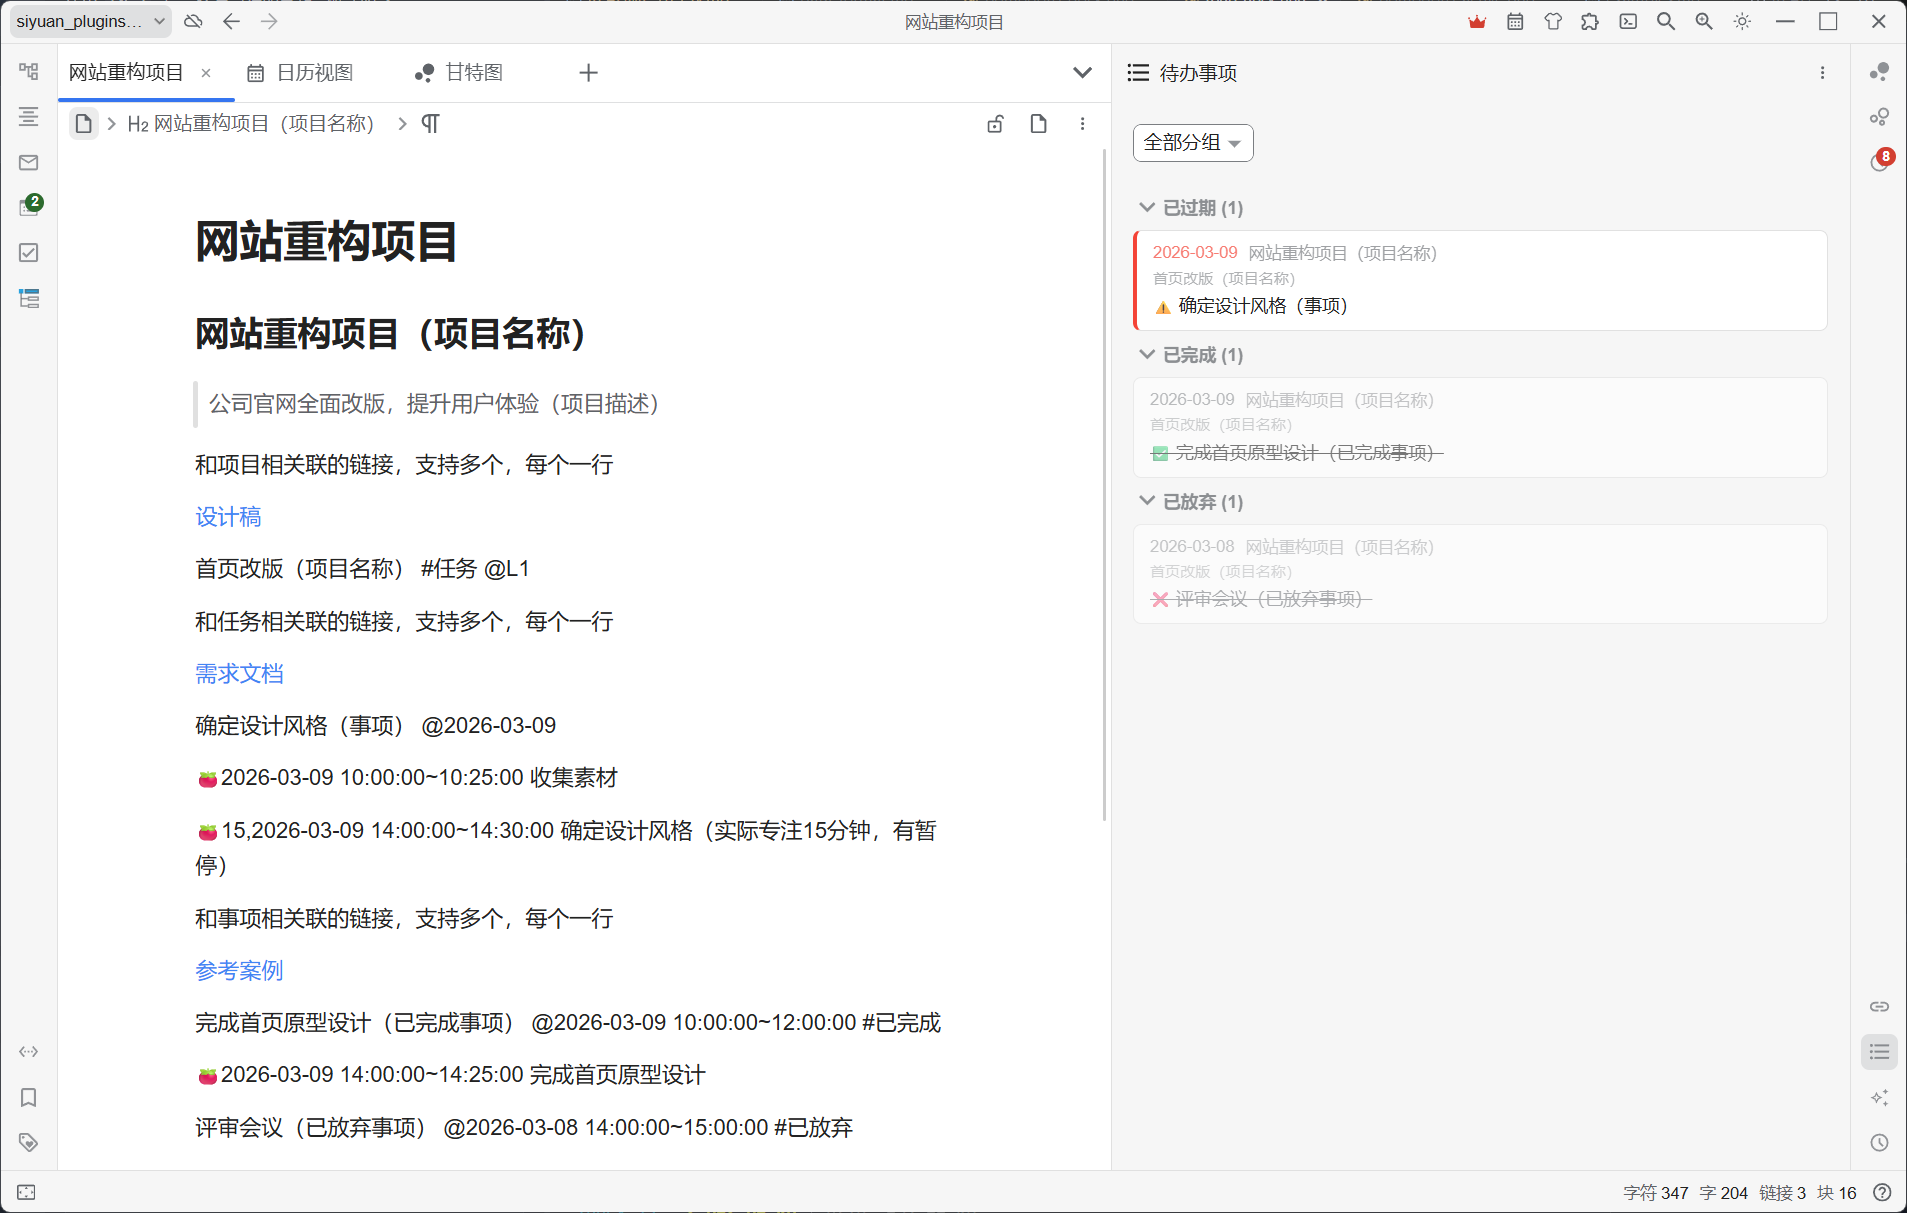
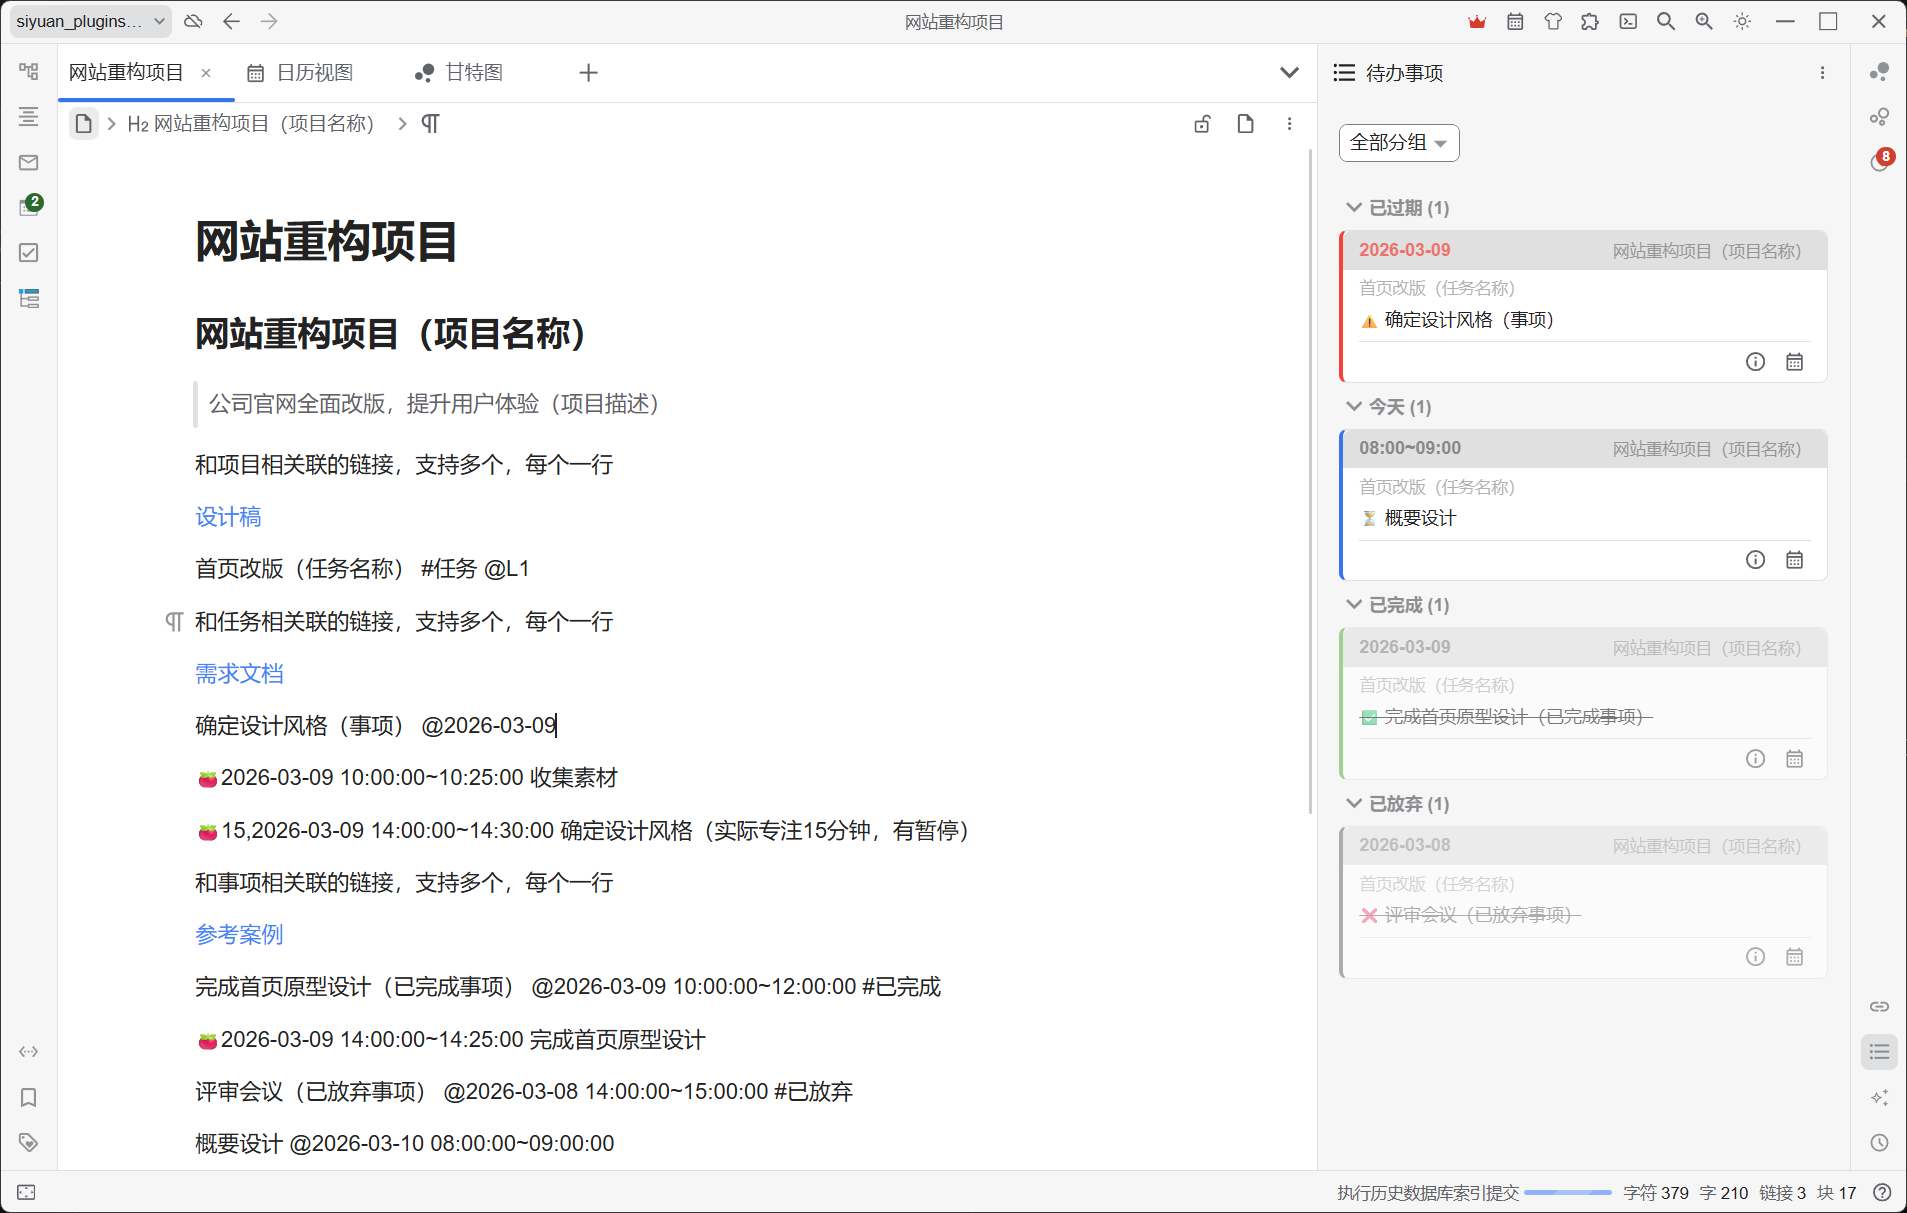
refactor: update TodoSidebar layout and enhance item display
- Improved the layout of the TodoSidebar component by restructuring item display elements.
- Added task name and content visibility for each item, enhancing user experience.
- Updated README_zh_CN.md for clarity on task naming conventions.
- Modified binary image file for user guide illustrations.

diff --git a/src/components/todo/TodoSidebar.vue b/src/components/todo/TodoSidebar.vue
@@ -28,9 +28,13 @@
               <div class="item-header">
                 <div class="item-header-left">
                   <span class="item-time">{{ formatDateLabel(item.date) }}</span>
-                  <span v-if="item.project" class="item-project">{{ item.project.name }}</span>
                 </div>
-                <div class="item-actions">
+                <span v-if="item.project" class="item-project">{{ item.project.name }}</span>
+              </div>
+              <div v-if="item.task" class="item-task">{{ item.task.name }}</div>
+              <div class="item-content">{{ getStatusEmoji(item) }}{{ item.content }}</div>
+              <div class="item-footer">
+                <div class="item-actions-hover">
                   <span
                     class="block__icon b3-tooltips b3-tooltips__sw"
                     :aria-label="t('todo').complete"
@@ -60,6 +64,8 @@
                   >
                     <svg><use xlink:href="#iconCloseRound"></use></svg>
                   </span>
+                </div>
+                <div class="item-actions-fixed">
                   <span class="block__icon b3-tooltips b3-tooltips__sw" :aria-label="t('todo').detail" @click.stop="openDetail(item)">
                     <svg><use xlink:href="#iconInfo"></use></svg>
                   </span>
@@ -68,8 +74,6 @@
                   </span>
                 </div>
               </div>
-              <div v-if="item.task" class="item-task">{{ item.task.name }}</div>
-              <div class="item-content">{{ getStatusEmoji(item) }}{{ item.content }}</div>
             </div>
           </div>
         </div>
@@ -87,16 +91,20 @@
             <div
               v-for="item in todayItems"
               :key="item.id"
-              class="todo-item"
+              class="todo-item status-today"
               @click="openItem(item)"
               @contextmenu.prevent="handleContextMenu($event, item)"
             >
               <div class="item-header">
                 <div class="item-header-left">
                   <span class="item-time">{{ formatTime(item) || t('todo').allDay }}</span>
-                  <span v-if="item.project" class="item-project">{{ item.project.name }}</span>
                 </div>
-                <div class="item-actions">
+                <span v-if="item.project" class="item-project">{{ item.project.name }}</span>
+              </div>
+              <div v-if="item.task" class="item-task">{{ item.task.name }}</div>
+              <div class="item-content">{{ getStatusEmoji(item) }}{{ item.content }}</div>
+              <div class="item-footer">
+                <div class="item-actions-hover">
                   <span
                     class="block__icon b3-tooltips b3-tooltips__sw"
                     :aria-label="t('todo').complete"
@@ -126,6 +134,8 @@
                   >
                     <svg><use xlink:href="#iconCloseRound"></use></svg>
                   </span>
+                </div>
+                <div class="item-actions-fixed">
                   <span class="block__icon b3-tooltips b3-tooltips__sw" :aria-label="t('todo').detail" @click.stop="openDetail(item)">
                     <svg><use xlink:href="#iconInfo"></use></svg>
                   </span>
@@ -134,8 +144,6 @@
                   </span>
                 </div>
               </div>
-              <div v-if="item.task" class="item-task">{{ item.task.name }}</div>
-              <div class="item-content">{{ getStatusEmoji(item) }}{{ item.content }}</div>
             </div>
           </div>
         </div>
@@ -153,16 +161,20 @@
             <div
               v-for="item in tomorrowItems"
               :key="item.id"
-              class="todo-item"
+              class="todo-item status-tomorrow"
               @click="openItem(item)"
               @contextmenu.prevent="handleContextMenu($event, item)"
             >
               <div class="item-header">
                 <div class="item-header-left">
                   <span class="item-time">{{ formatTime(item) || t('todo').allDay }}</span>
-                  <span v-if="item.project" class="item-project">{{ item.project.name }}</span>
                 </div>
-                <div class="item-actions">
+                <span v-if="item.project" class="item-project">{{ item.project.name }}</span>
+              </div>
+              <div v-if="item.task" class="item-task">{{ item.task.name }}</div>
+              <div class="item-content">{{ getStatusEmoji(item) }}{{ item.content }}</div>
+              <div class="item-footer">
+                <div class="item-actions-hover">
                   <span
                     class="block__icon b3-tooltips b3-tooltips__sw"
                     :aria-label="t('todo').complete"
@@ -192,6 +204,8 @@
                   >
                     <svg><use xlink:href="#iconCloseRound"></use></svg>
                   </span>
+                </div>
+                <div class="item-actions-fixed">
                   <span class="block__icon b3-tooltips b3-tooltips__sw" :aria-label="t('todo').detail" @click.stop="openDetail(item)">
                     <svg><use xlink:href="#iconInfo"></use></svg>
                   </span>
@@ -200,8 +214,6 @@
                   </span>
                 </div>
               </div>
-              <div v-if="item.task" class="item-task">{{ item.task.name }}</div>
-              <div class="item-content">{{ getStatusEmoji(item) }}{{ item.content }}</div>
             </div>
           </div>
         </div>
@@ -226,16 +238,20 @@
                 <div
                   v-for="item in groupedFutureItems.get(date)"
                   :key="item.id"
-                  class="todo-item"
+                  class="todo-item status-future"
                   @click="openItem(item)"
                   @contextmenu.prevent="handleContextMenu($event, item)"
                 >
                   <div class="item-header">
                     <div class="item-header-left">
                       <span class="item-time">{{ formatTime(item) || t('todo').allDay }}</span>
-                      <span v-if="item.project" class="item-project">{{ item.project.name }}</span>
                     </div>
-                    <div class="item-actions">
+                    <span v-if="item.project" class="item-project">{{ item.project.name }}</span>
+                  </div>
+                  <div v-if="item.task" class="item-task">{{ item.task.name }}</div>
+                  <div class="item-content">{{ getStatusEmoji(item) }}{{ item.content }}</div>
+                  <div class="item-footer">
+                    <div class="item-actions-hover">
                       <span
                         class="block__icon b3-tooltips b3-tooltips__sw"
                         :aria-label="t('todo').complete"
@@ -265,6 +281,8 @@
                       >
                         <svg><use xlink:href="#iconCloseRound"></use></svg>
                       </span>
+                    </div>
+                    <div class="item-actions-fixed">
                       <span class="block__icon b3-tooltips b3-tooltips__sw" :aria-label="t('todo').detail" @click.stop="openDetail(item)">
                         <svg><use xlink:href="#iconInfo"></use></svg>
                       </span>
@@ -273,8 +291,6 @@
                       </span>
                     </div>
                   </div>
-                  <div v-if="item.task" class="item-task">{{ item.task.name }}</div>
-                  <div class="item-content">{{ getStatusEmoji(item) }}{{ item.content }}</div>
                 </div>
               </div>
             </div>
@@ -301,9 +317,13 @@
               <div class="item-header">
                 <div class="item-header-left">
                   <span class="item-time">{{ formatDateLabel(item.date) }}</span>
-                  <span v-if="item.project" class="item-project">{{ item.project.name }}</span>
                 </div>
-                <div class="item-actions">
+                <span v-if="item.project" class="item-project">{{ item.project.name }}</span>
+              </div>
+              <div v-if="item.task" class="item-task">{{ item.task.name }}</div>
+              <div class="item-content">{{ getStatusEmoji(item) }}{{ item.content }}</div>
+              <div class="item-footer">
+                <div class="item-actions-fixed">
                   <span class="block__icon b3-tooltips b3-tooltips__sw" :aria-label="t('todo').detail" @click.stop="openDetail(item)">
                     <svg><use xlink:href="#iconInfo"></use></svg>
                   </span>
@@ -312,8 +332,6 @@
                   </span>
                 </div>
               </div>
-              <div v-if="item.task" class="item-task">{{ item.task.name }}</div>
-              <div class="item-content">{{ getStatusEmoji(item) }}{{ item.content }}</div>
             </div>
           </div>
         </div>
@@ -338,9 +356,13 @@
               <div class="item-header">
                 <div class="item-header-left">
                   <span class="item-time">{{ formatDateLabel(item.date) }}</span>
-                  <span v-if="item.project" class="item-project">{{ item.project.name }}</span>
                 </div>
-                <div class="item-actions">
+                <span v-if="item.project" class="item-project">{{ item.project.name }}</span>
+              </div>
+              <div v-if="item.task" class="item-task">{{ item.task.name }}</div>
+              <div class="item-content">{{ getStatusEmoji(item) }}{{ item.content }}</div>
+              <div class="item-footer">
+                <div class="item-actions-fixed">
                   <span class="block__icon b3-tooltips b3-tooltips__sw" :aria-label="t('todo').detail" @click.stop="openDetail(item)">
                     <svg><use xlink:href="#iconInfo"></use></svg>
                   </span>
@@ -349,8 +371,6 @@
                   </span>
                 </div>
               </div>
-              <div v-if="item.task" class="item-task">{{ item.task.name }}</div>
-              <div class="item-content">{{ getStatusEmoji(item) }}{{ item.content }}</div>
             </div>
           </div>
         </div>
@@ -806,7 +826,7 @@ onUnmounted(() => {
   display: flex;
   flex-direction: column;
   gap: 4px;
-  padding: 8px 12px;
+  padding: 8px 12px 3px 12px;
   background: var(--b3-theme-background);
   border-radius: var(--b3-border-radius);
   cursor: pointer;
@@ -821,6 +841,7 @@ onUnmounted(() => {
 
   &.status-completed {
     opacity: 0.6;
+    border-left: 3px solid var(--b3-theme-success);
 
     .item-content {
       text-decoration: line-through;
@@ -829,6 +850,7 @@ onUnmounted(() => {
 
   &.status-abandoned {
     opacity: 0.5;
+    border-left: 3px solid var(--b3-theme-on-surface);
 
     .item-content {
       text-decoration: line-through;
@@ -843,6 +865,12 @@ onUnmounted(() => {
       color: #f44336;
     }
   }
+
+  &.status-today,
+  &.status-tomorrow,
+  &.status-future {
+    border-left: 3px solid var(--b3-theme-primary);
+  }
 }
 
 .item-header {
@@ -851,42 +879,47 @@ onUnmounted(() => {
   justify-content: space-between;
   gap: 8px;
   width: 100%;
-  position: relative;
+  margin: -8px -12px 0 -12px;
+  padding: 6px 12px;
+  font-size: 12px;
+  background: var(--b3-theme-surface-lighter);
+  border-bottom: 1px solid var(--b3-border-color);
+  border-radius: var(--b3-border-radius) var(--b3-border-radius) 0 0;
 }
 
 .item-header-left {
   display: flex;
   align-items: center;
   gap: 8px;
-  flex: 1;
   min-width: 0;
 }
 
 .item-time {
   color: var(--b3-theme-on-surface);
   opacity: 0.7;
-  font-size: 12px;
   flex-shrink: 0;
+  font-size: 13px;
+  font-weight: 600;
 }
 
 .item-project {
-  font-size: 12px;
   color: var(--b3-theme-on-surface);
   opacity: 0.6;
   overflow: hidden;
   text-overflow: ellipsis;
   white-space: nowrap;
-  flex: 1;
-  min-width: 0;
+  flex-shrink: 0;
+  max-width: 50%;
 }
 
 .item-task {
   width: 100%;
-  font-size: 11px;
+  font-size: 12px;
   color: var(--b3-theme-on-surface);
   opacity: 0.5;
   word-break: break-all;
   line-height: 1.3;
+  margin: 2px 0;
 }
 
 .item-content {
@@ -898,16 +931,21 @@ onUnmounted(() => {
   line-height: 1.4;
 }
 
-.item-actions {
+.item-footer {
+  display: flex;
+  align-items: center;
+  justify-content: flex-end;
+  gap: 8px;
+  padding-top: 2px;
+  margin-top: 2px;
+  border-top: 1px solid var(--b3-border-color);
+}
+
+.item-actions-hover {
   display: flex;
   gap: 4px;
-  position: absolute;
-  right: 0;
-  top: 50%;
-  transform: translateY(-50%);
   opacity: 0;
   transition: opacity 0.2s;
-  flex-shrink: 0;
 
   .todo-item:hover & {
     opacity: 1;
@@ -916,7 +954,23 @@ onUnmounted(() => {
   .block__icon {
     opacity: 1;
     cursor: pointer;
-    
+
+    svg {
+      width: 14px;
+      height: 14px;
+    }
+  }
+}
+
+.item-actions-fixed {
+  display: flex;
+  gap: 4px;
+  flex-shrink: 0;
+
+  .block__icon {
+    opacity: 1;
+    cursor: pointer;
+
     svg {
       width: 14px;
       height: 14px;

diff --git a/README_zh_CN.md b/README_zh_CN.md
@@ -80,13 +80,13 @@
 
 [设计稿](https://figma.com/design/xxx)
 
-首页改版（项目名称） #任务 @L1 
+首页改版（任务名称） #任务 @L1 
 
 和任务相关联的链接，支持多个，每个一行
 
 [需求文档](https://doc.example.com/homepage)
 
-确定设计风格（事项） @2026-03-09
+确定设计风格（事项内容） @2026-03-09
 
 🍅2026-03-09 10:00:00~10:25:00 收集素材
 
